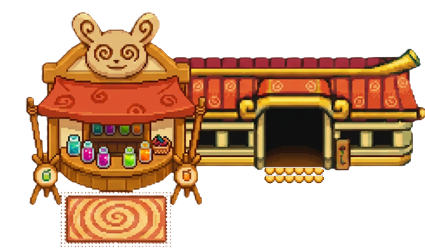
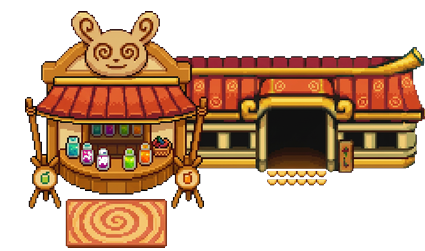
Redraw the left kiosk to match the right wing's art style
The Spinda kiosk used soft gradients, blurry wood and muted beige tones while
the right wing used flat saturated areas, crisp tiles and strong outlines. The
mismatch was already in the original file, not introduced by the door edit.

Generating on a solid magenta background instead of the transparency
checkerboard makes the cutout clean: magenta is absent from the cafe palette,
whereas the baked-in checkerboard shares greys with the subject and always left
a residual grid. detourer_magenta.py replaces nettoyer_sortie_generee.py.

diff --git a/tileset_pmd/detourer_magenta.py b/tileset_pmd/detourer_magenta.py
@@ -1,0 +1,83 @@
+from __future__ import annotations
+
+"""Detoure une generation faite sur fond magenta et la remet au format source.
+
+Demander au generateur un fond magenta uni (#FF00FF) evite le damier de
+transparence peint en dur, impossible a retirer proprement quand le sujet
+contient lui aussi des gris. Le magenta pur est absent de la palette du cafe,
+donc le detourage est net.
+
+Etapes :
+  1. masque magenta (teinte rouge+bleu forts, vert faible), dilate pour manger
+     le lisere de compression,
+  2. recadrage sur le sujet,
+  3. reprojection dans la bbox exacte de la source, pour garder taille et
+     position au pixel pres.
+
+Usage :
+    python3 detourer_magenta.py <source.png> <generee.png> <sortie.png>
+"""
+
+from pathlib import Path
+import sys
+
+from PIL import Image, ImageFilter
+import numpy as np
+
+
+def magenta_mask(rgb: np.ndarray) -> np.ndarray:
+    r = rgb[:, :, 0].astype(int)
+    g = rgb[:, :, 1].astype(int)
+    b = rgb[:, :, 2].astype(int)
+    # Magenta : rouge et bleu eleves, vert nettement plus bas.
+    return (r > 140) & (b > 140) & (g < 110) & ((r - g) > 60) & ((b - g) > 60)
+
+
+def main() -> int:
+    if len(sys.argv) < 4:
+        print(__doc__)
+        return 1
+    src_p, gen_p, out_p = (Path(a) for a in sys.argv[1:4])
+
+    src = Image.open(src_p).convert("RGBA")
+    gen = Image.open(gen_p).convert("RGB")
+    print(f"Source  : {src.size}")
+    print(f"Generee : {gen.size}")
+
+    arr = np.array(gen)
+    bg = magenta_mask(arr)
+    print(f"Fond magenta detecte : {int(bg.sum())} px "
+          f"({100 * bg.mean():.1f}% de l'image)")
+
+    # Le bord du sujet garde un lisere magenta du a la compression : on etend
+    # legerement le fond pour l'absorber.
+    m = Image.fromarray((bg * 255).astype(np.uint8), "L")
+    m = m.filter(ImageFilter.MaxFilter(3))
+    bg = np.array(m) > 127
+
+    rgba = np.dstack([arr, np.where(bg, 0, 255).astype(np.uint8)])
+    cut = Image.fromarray(rgba, "RGBA")
+
+    box = cut.getbbox()
+    if box is None:
+        print("Image vide apres detourage.")
+        return 1
+    subject = cut.crop(box)
+    print(f"Sujet   : {subject.size} (bbox {box})")
+
+    sbox = src.getbbox()
+    tw, th = sbox[2] - sbox[0], sbox[3] - sbox[1]
+    scaled = subject.resize((tw, th), Image.LANCZOS)
+
+    out = Image.new("RGBA", src.size, (0, 0, 0, 0))
+    out.paste(scaled, (sbox[0], sbox[1]), scaled)
+    out.save(out_p)
+
+    a = np.array(out)
+    print(f"Sortie  : {out.size}  transparent={int((a[:, :, 3] == 0).sum())} px"
+          f"  -> {out_p}")
+    return 0
+
+
+if __name__ == "__main__":
+    sys.exit(main())

diff --git a/spinda_cafe/README.md b/spinda_cafe/README.md
@@ -41,18 +41,29 @@ répand devant la porte. C'est le même traitement que la porte du café de Halc
 Cette version a été produite par le générateur d'image à partir de
 `spindacafevFINAL.png`, puis remise au format exact de la source.
 
+## Unification du style
+
+Le kiosque de gauche était dessiné dans un style plus doux que l'aile droite :
+dégradés marqués, bois flou, tons beiges éteints, alors que l'aile droite a des
+aplats francs, des tuiles nettes et des contours appuyés. **Ce décalage était
+déjà présent dans le fichier d'origine**, il ne venait pas de la retouche de la
+porte.
+
+Le kiosque a donc été redessiné dans le style de l'aile droite : mêmes tuiles
+rouge/orange saturées, même liseré doré net, aplats au lieu de dégradés. La
+silhouette, la tête de Spinda, le comptoir, les fioles, le panier, les mâts et
+le tapis gardent leurs positions.
+
 ### Détourage du fond
 
-Le générateur renvoie un PNG agrandi **sans canal alpha** : le damier de
-transparence de l'aperçu est peint en dur, avec du bruit de compression. Le
-détourer par la couleur laissait toujours un quadrillage résiduel visible.
+Le générateur renvoie un PNG agrandi **sans canal alpha**. Sur fond de damier,
+celui-ci est peint en dur et reste indétourable proprement, puisque le sujet
+contient lui aussi des gris.
 
-`../tileset_pmd/nettoyer_sortie_generee.py` procède autrement : l'image source a
-déjà un alpha parfait et la génération est cadrée de la même façon (écart moyen
-mesuré : 20/255 sur la zone opaque contre 220/255 sur le fond). Le script
-**réutilise donc l'alpha de la source**, en y ajoutant la matière franchement
-colorée apparue hors du sujet d'origine — ce qui laisse passer les 875 px de
-festons qui débordent sous le seuil.
+La parade : demander la génération sur un **fond magenta uni (#FF00FF)**, couleur
+absente de la palette du café. `../tileset_pmd/detourer_magenta.py` isole ce fond,
+dilate le masque de 1 px pour absorber le liseré de compression, puis reprojette
+le sujet dans la bbox exacte de la source.
 
 ## Fichiers produits
 
@@ -81,8 +92,8 @@ pixel-art (palette réduite, alpha binaire), c'est `NEAREST` qu'il faudrait util
 ## Régénérer
 
 ```bash
-# 1. détourer la sortie du générateur et la remettre au format source
-python3 ../tileset_pmd/nettoyer_sortie_generee.py \
+# 1. détourer le fond magenta et remettre au format source
+python3 ../tileset_pmd/detourer_magenta.py \
     spindacafevFINAL.png _generation_brute.png spindacafevFINAL_porte.png
 
 # 2. remettre à l'échelle du café de Halcyon
